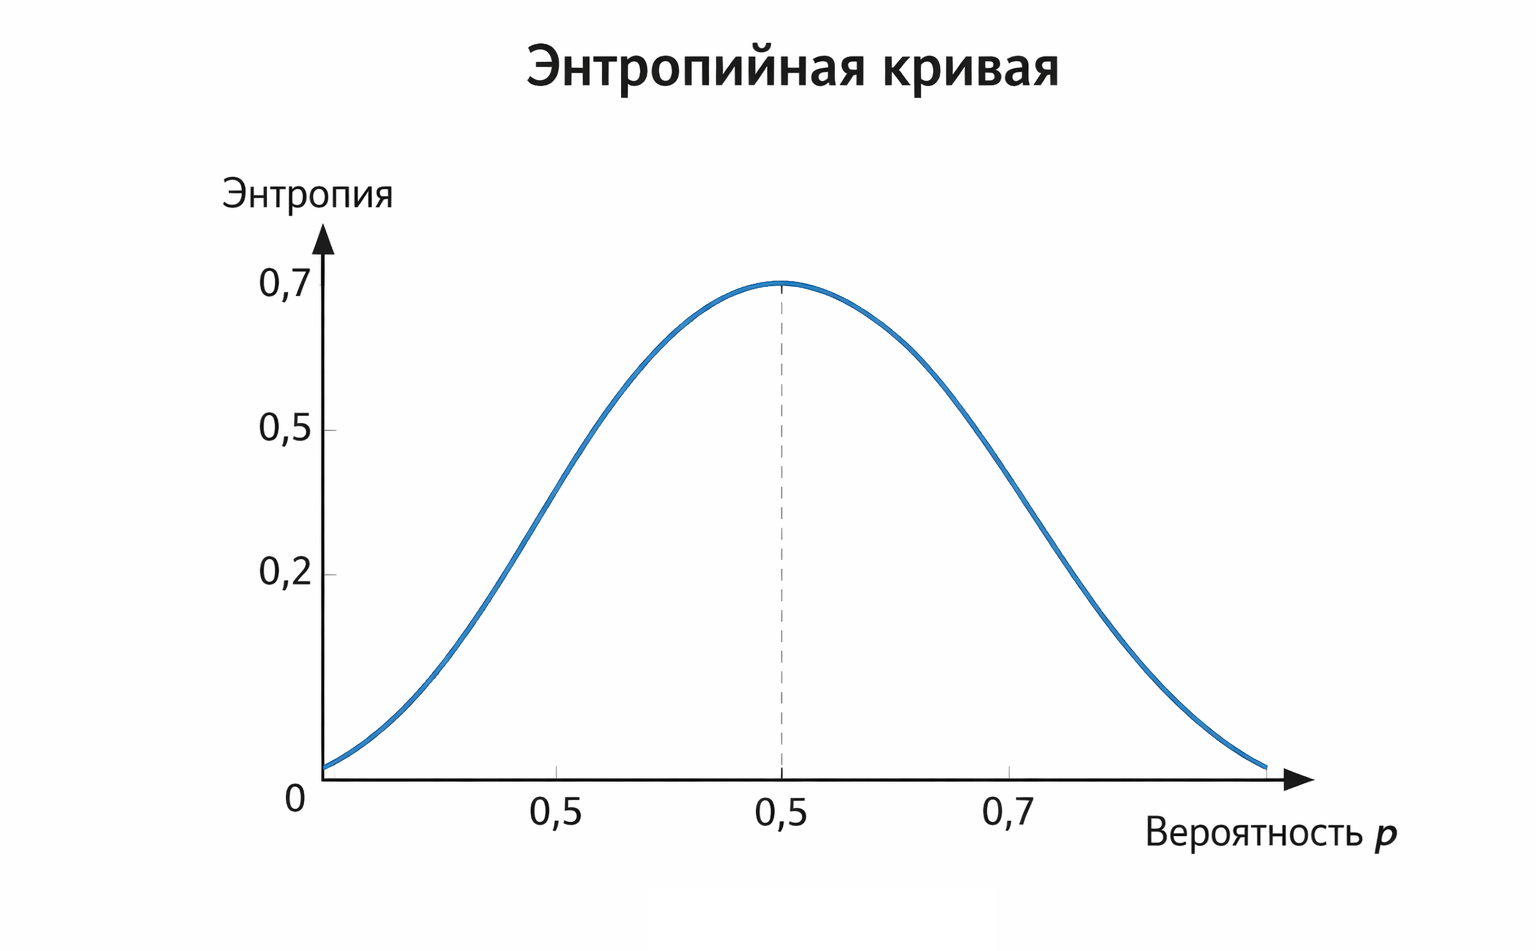
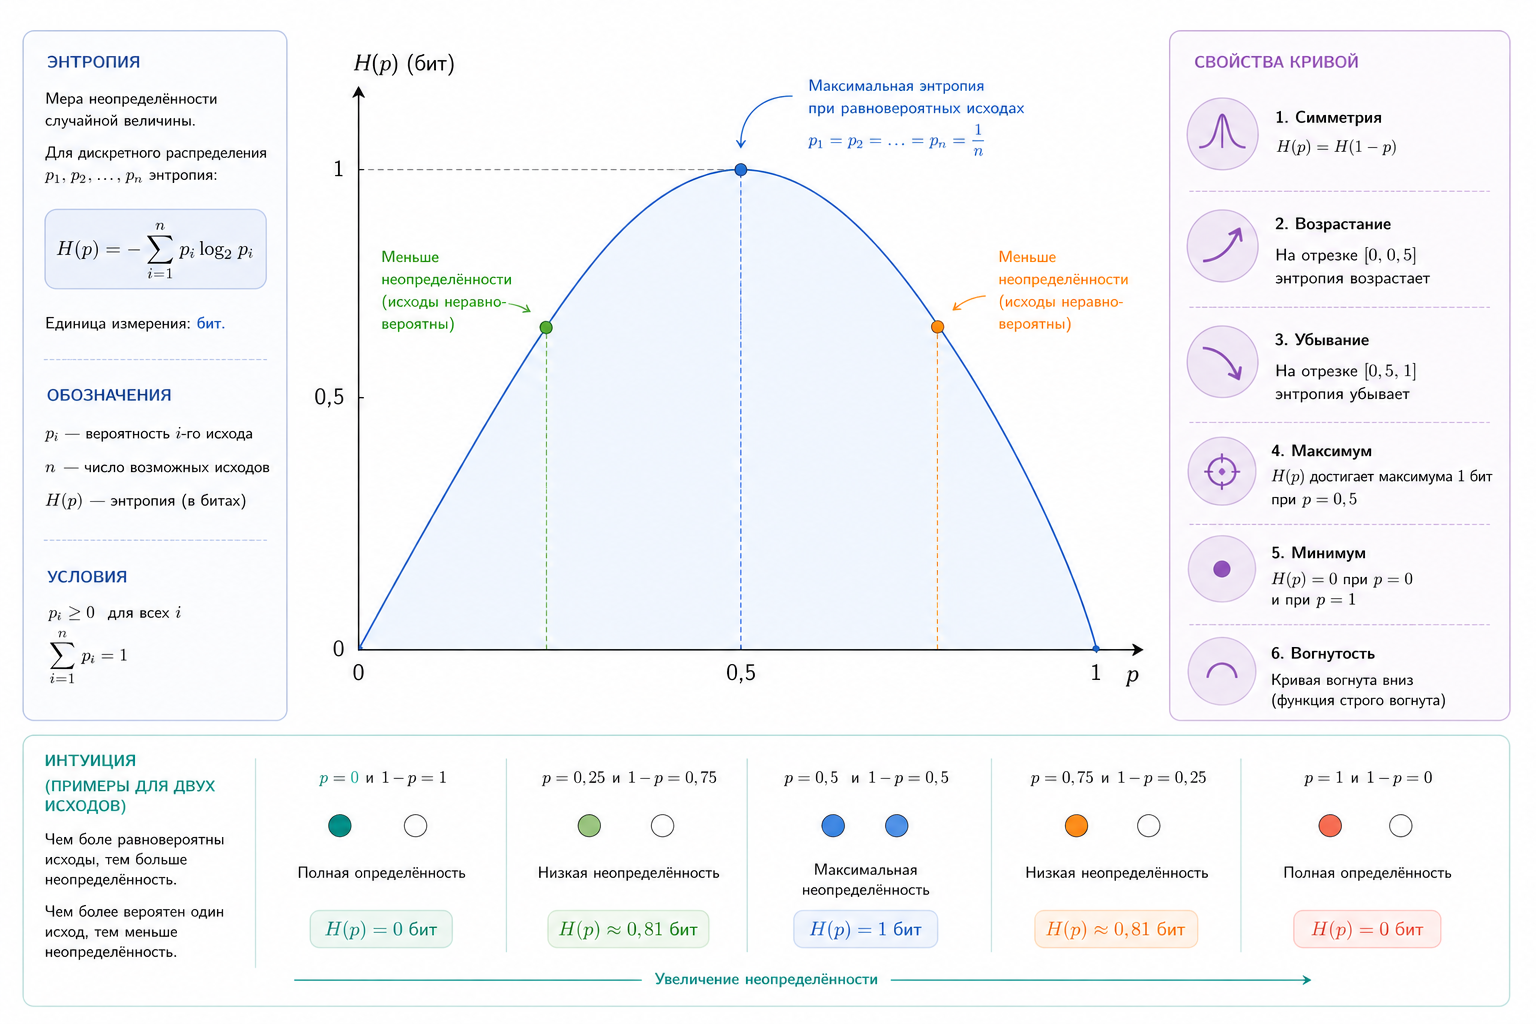
GITBOOK-835: No subject

diff --git a/ru/chast-iv.-blizost-i-struktura-dannykh/decision-trees-i-razbienie-prostranstva/README.md b/ru/chast-iv.-blizost-i-struktura-dannykh/decision-trees-i-razbienie-prostranstva/README.md
@@ -14,7 +14,7 @@ description: Энтропия, information gain, объяснимость.
 
 Если смотреть на это геометрически, то дерево шаг за шагом разрезает пространство признаков на области. Сначала грубо, потом всё более точно. Каждый новый вопрос уточняет, в какой части пространства мы находимся.
 
-<div align="left"><figure><img src="../../.gitbook/assets/17-1-decision_tree_simple.png" alt="" width="563"><figcaption><p>17.1 Простое дерево решений</p></figcaption></figure></div>
+<div align="left"><figure><img src="../../.gitbook/assets/17.1-decision-tree-simple.png" alt=""><figcaption><p>17.1 Простое дерево решений</p></figcaption></figure></div>
 
 Важно понимать, что дерево не ищет сразу идеальное решение. Оно действует жадно: на каждом шаге выбирает такой вопрос, который прямо сейчас лучше всего упорядочивает данные.
 
@@ -24,7 +24,7 @@ description: Энтропия, information gain, объяснимость.
 
 Сначала может появиться, например, линия $$x1 < 4$$. Затем в одной из половин – линия $$x2 < 7$$. Так постепенно пространство разбивается на мозаику прямоугольников.
 
-<div align="left"><figure><img src="../../.gitbook/assets/17.2-feature_space_splitting.png" alt="" width="563"><figcaption><p>17.2 Разделение пространства признаков</p></figcaption></figure></div>
+<div align="left"><figure><img src="../../.gitbook/assets/17.2-feature-space-splitting.png" alt=""><figcaption><p>17.2 Разделение пространства признаков</p></figcaption></figure></div>
 
 Это ключевое отличие деревьев от линейных моделей. Линейная регрессия или логистическая регрессия проводят одну линейную границу в исходном пространстве признаков. Дерево строит ломаную, ступенчатую границу, приближая даже очень сложные формы.
 
@@ -44,7 +44,7 @@ $$
 
 Если $$p = 0$$ или $$p = 1$$, энтропия равна $$0$$ – никакой неопределённости нет. Если $$p = 0.5$$, энтропия максимальна – мы не можем уверенно угадать класс.
 
-<div align="left"><figure><img src="../../.gitbook/assets/17.3-entropy-curve.png" alt="" width="563"><figcaption><p>17.3 Кривая энтропии</p></figcaption></figure></div>
+<div align="left"><figure><img src="../../.gitbook/assets/17.3-entropy-curve.png" alt=""><figcaption><p>17.3 Кривая энтропии</p></figcaption></figure></div>
 
 Энтропия – это мера неопределённости. Чем она выше, тем сложнее принять решение.
 

diff --git a/ru/vvedenie/o-knige/istoriya-izmenenii-knigi.md b/ru/vvedenie/o-knige/istoriya-izmenenii-knigi.md
@@ -36,6 +36,7 @@
 * улучшены изображения для главы "Логистическая регрессия"
 * улучшены изображения для главы "Почему наивный Байес работает"
 * улучшены изображения для главы "Почему слова превращаются в числа"
+* улучшены изображения для главы "Decision Trees и разбиение пространства"
 
 ### _Март 2026_
 
